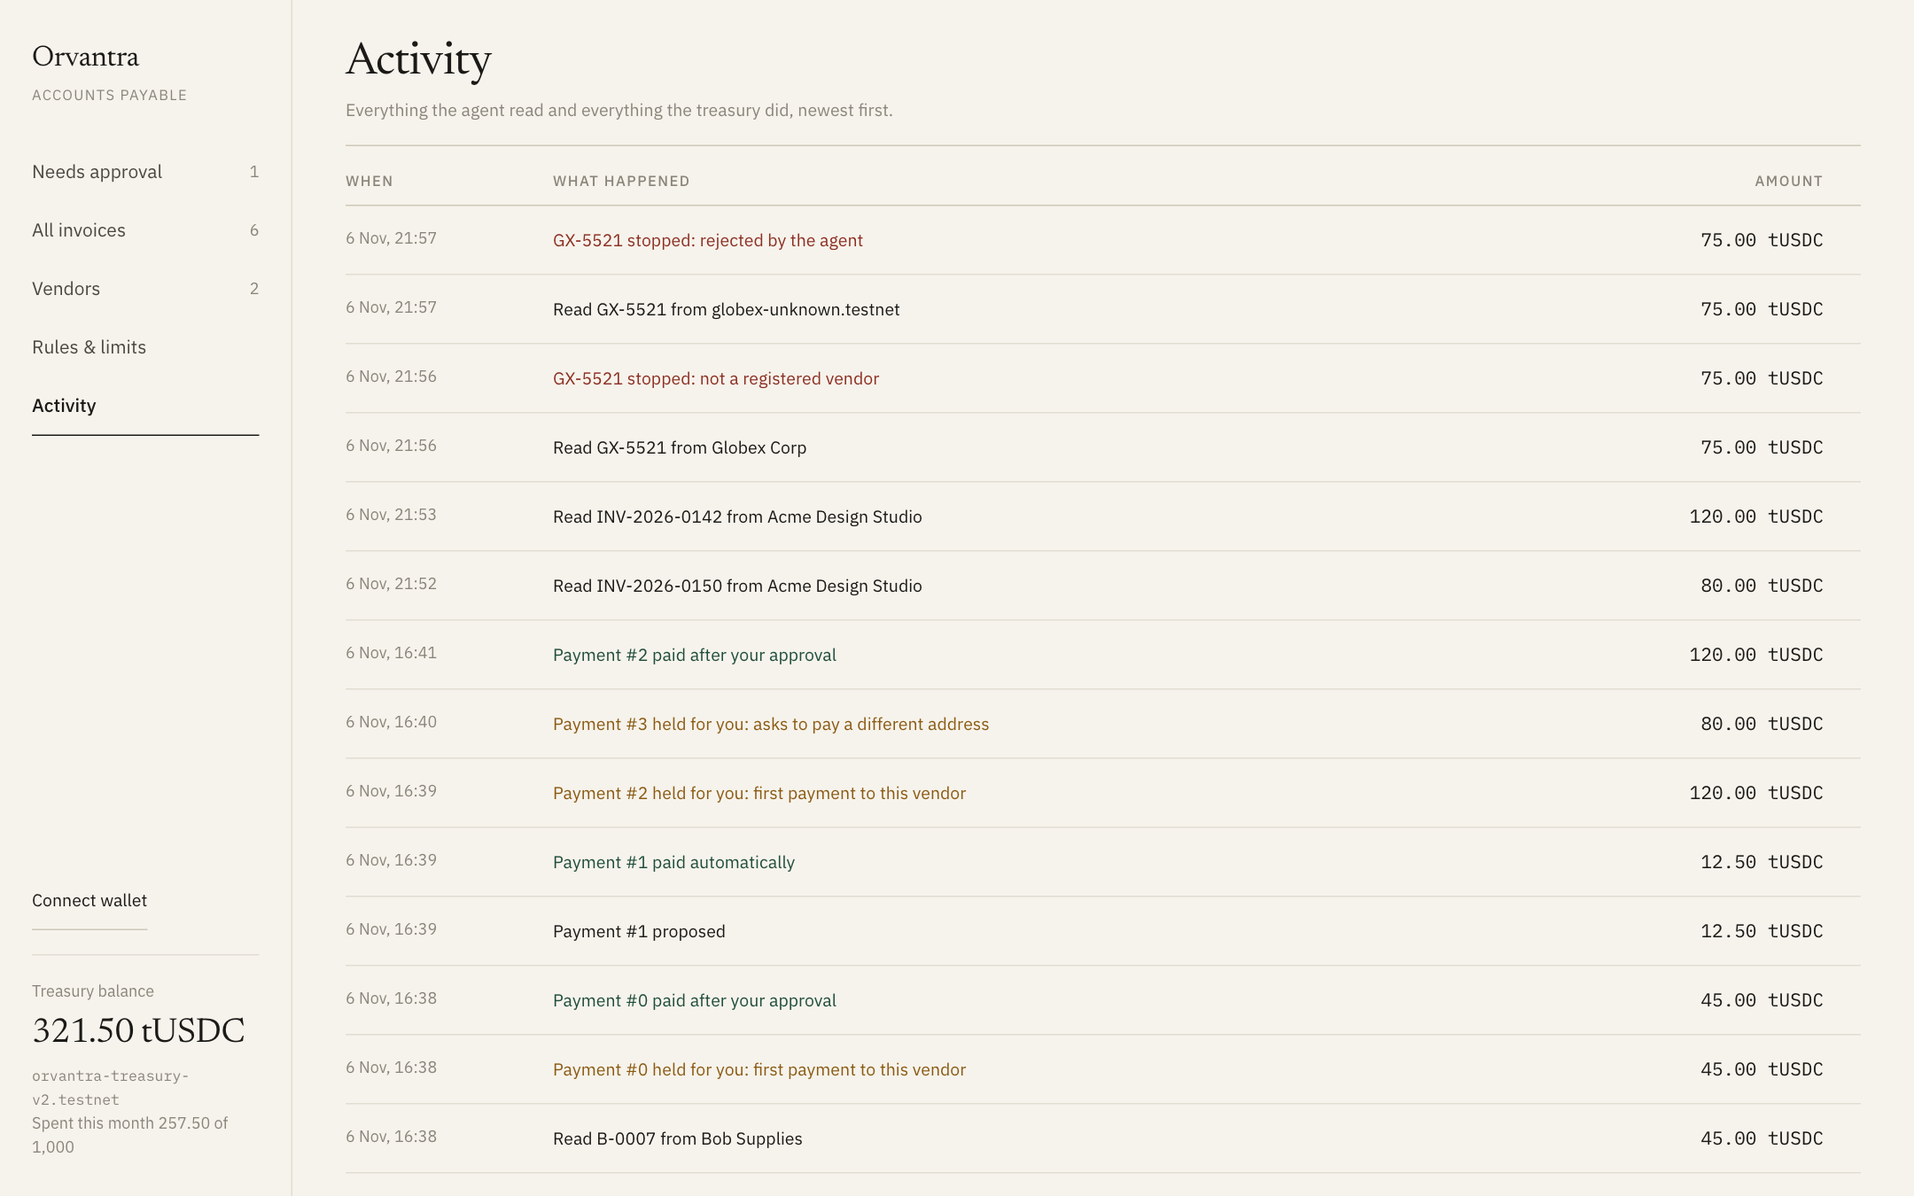
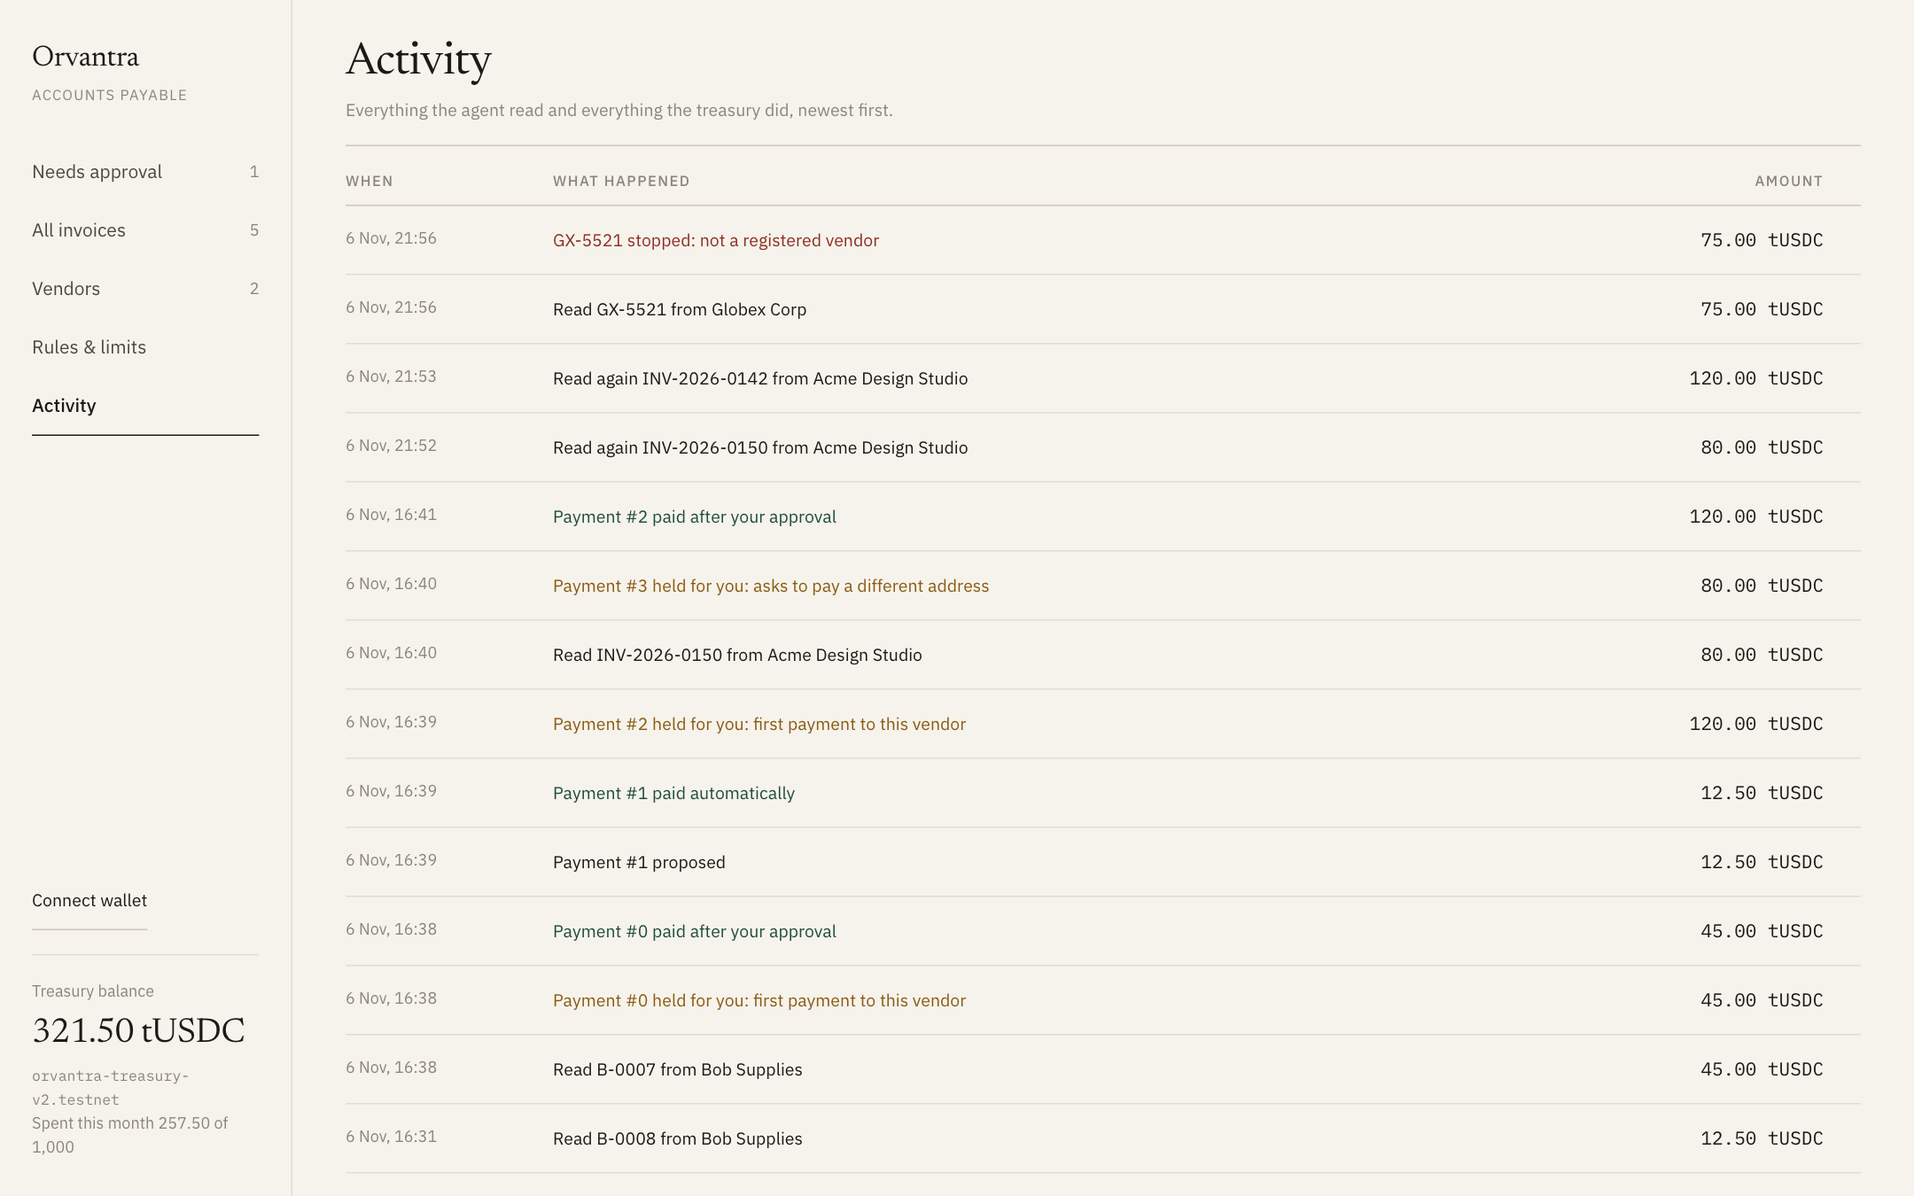
fix(web): dedupe invoices by hash, consistent received times
- One row per invoice hash in All invoices / Activity: an on-chain payment
  wins, else the newest run; older run keys kept as aliases so links resolve.
- A web upload's own ledger entry (upload_id) no longer makes a second row.
- Vendor name: if missing or equal to the account id, use the registry
  display_name, else a name read from any run of the invoice.
- Activity keeps every read; later ones are labelled 'Read again'.
- 'received' = ledger created time (new created_at, else first status),
  else on-chain created_at (labelled 'on-chain'); later read-only uploads
  no longer move it.
- Retook design/impl-list.png and impl-activity.png.

diff --git a/web/lib/rows.test.ts b/web/lib/rows.test.ts
@@ -2,6 +2,7 @@ import { describe, expect, it } from 'vitest';
 import type { Payment } from 'orvantra-agent/near';
 import type { InvoiceRecord } from 'orvantra-agent/records';
 import type { LedgerEntry } from 'orvantra-agent/ledger';
+import { buildActivity } from './activity';
 import { buildRows, counts, factsFor, type ChainContext } from './rows';
 
 const ctx: ChainContext = {
@@ -43,8 +44,15 @@ describe('buildRows', () => {
     expect(factsFor(r, ctx).agentFindings.some((m) => m.includes('duplicate'))).toBe(false);
   });
 
-  it('a rejected upload is its own stopped row; a duplicate upload keeps its duplicate finding', () => {
+  it('a rejected duplicate upload of a paid-for invoice folds into the payment row (one row per hash)', () => {
     const dup = record({ id: '1793998400000-00000001', mode: 'execute', outcome: 'rejected', invoice_hash: 'h3', decision: { ...record({}).decision!, findings: [{ level: 'reject', message: 'invoice_hash already used in the treasury (duplicate invoice)' }] } });
+    const rows = buildRows([payment({})], [], [dup], ctx);
+    expect(rows.map((r) => r.key)).toEqual(['p3']);
+    expect(rows[0]).toMatchObject({ category: 'held', aliases: ['u1793998400000-00000001'], readsAt: ['2026-11-06T20:00:00.000Z'] });
+  });
+
+  it('a rejected upload with no payment is its own stopped row', () => {
+    const dup = record({ id: '1793998400000-00000001', mode: 'execute', outcome: 'already-proposed', invoice_hash: 'h4' });
     const rows = buildRows([payment({})], [], [dup], ctx);
     expect(rows.map((r) => r.key)).toEqual(['u1793998400000-00000001', 'p3']);
     expect(rows[0]).toMatchObject({ category: 'stopped', outcome: 'Stopped — duplicate invoice', route: null });
@@ -57,10 +65,89 @@ describe('buildRows', () => {
     ];
     const rows = buildRows([payment({ id: 0, invoice_hash: 'h0', status: 'Paid', reasons: [] })], led, [], ctx);
     expect(rows.map((r) => [r.key, r.outcome])).toEqual([
-      ['p0', 'Paid automatically'], // created 2026-11-06 21:13 UTC, newest first
+      ['p0', 'Paid automatically'], // created 2026-11-06 18:33 UTC, newest first
       ['lh9', 'Stopped — rejected by the agent'],
     ]);
     expect(rows[1].fixtureFile).toBe('07-unknown-vendor.png');
     expect(counts(rows)).toEqual({ all: 2, held: 0, paid: 1, stopped: 1 });
+  });
+});
+
+describe('dedupe by invoice hash', () => {
+  const GX = 'gx-hash';
+  const gxRecord = record({
+    id: '1794005760000-0000gx01', received_at: '2026-11-06T21:56:00.000Z', mode: 'execute', outcome: 'rejected', invoice_hash: GX,
+    decision: { ...record({}).decision!, invoice_hash: GX, findings: [{ level: 'reject', message: 'vendor is not in the registry' }] },
+    invoice: { ...record({}).invoice!, vendor_name: 'Globex Corp', vendor_account: 'globex-unknown.testnet', invoice_number: 'GX-5521', amount_base_units: '75000000' },
+  });
+  const gxLedger: LedgerEntry = {
+    invoice_hash: GX, file: '07-unknown-vendor.png', network: 'testnet', treasury: 't.testnet', vendor: 'globex-unknown.testnet', amount: '75000000',
+    invoice_number: 'GX-5521', decision: 'reject', statuses: [{ at: '2026-11-06T21:57:00.000Z', status: 'analyzed:reject' }],
+  };
+
+  it('two runs of GX-5521 become one row: newest outcome, name read from the invoice, both reads kept', () => {
+    const rows = buildRows([], [gxLedger], [gxRecord], ctx);
+    expect(rows).toHaveLength(1);
+    expect(rows[0]).toMatchObject({
+      key: `l${GX.slice(0, 16)}`, vendorName: 'Globex Corp', vendorAccount: 'globex-unknown.testnet', outcome: 'Stopped — rejected by the agent',
+      receivedAt: '2026-11-06T21:57:00.000Z', aliases: ['u1794005760000-0000gx01'], readsAt: ['2026-11-06T21:56:00.000Z', '2026-11-06T21:57:00.000Z'],
+    });
+    const reads = buildActivity(rows, 'tUSDC').filter((e) => e.text.startsWith('Read'));
+    expect(reads.map((e) => [e.at, e.text])).toEqual([
+      ['2026-11-06T21:57:00.000Z', 'Read again GX-5521 from Globex Corp'],
+      ['2026-11-06T21:56:00.000Z', 'Read GX-5521 from Globex Corp'],
+    ]);
+    expect(buildActivity(rows, 'tUSDC').filter((e) => e.tone === 'rej')).toHaveLength(1);
+  });
+
+  it('newest run wins regardless of input order', () => {
+    const newer = { ...gxRecord, id: '1794009999999-0000gx02', received_at: '2026-11-06T22:30:00.000Z', outcome: 'analyzed' };
+    const rows = buildRows([], [gxLedger], [newer, gxRecord], ctx);
+    expect(rows.map((r) => r.key)).toEqual(['u1794009999999-0000gx02']);
+    expect(rows[0].readsAt).toHaveLength(3);
+  });
+
+  it('a vendor name that is just the account id falls back to the registry display name', () => {
+    const led = { ...gxLedger, invoice_hash: 'hA', vendor: 'acme.testnet' };
+    expect(buildRows([], [led], [], ctx)[0].vendorName).toBe('Acme');
+    const rec = record({ outcome: 'rejected', invoice_hash: 'hB', invoice: { ...record({}).invoice!, vendor_name: 'acme.testnet' } });
+    expect(buildRows([], [], [rec], ctx)[0].vendorName).toBe('Acme');
+    expect(buildRows([], [gxLedger], [], ctx)[0].vendorName).toBe('globex-unknown.testnet'); // nothing better known
+  });
+
+  it('a web upload and its own ledger entry are one run, one row', () => {
+    const led = { ...gxLedger, upload_id: gxRecord.id, statuses: [{ at: '2026-11-06T21:56:05.000Z', status: 'analyzed:reject' }] };
+    const rows = buildRows([], [led], [gxRecord], ctx);
+    expect(rows.map((r) => r.key)).toEqual(['u1794005760000-0000gx01']);
+    expect(rows[0].readsAt).toEqual(['2026-11-06T21:56:00.000Z']);
+  });
+});
+
+describe('received time', () => {
+  const T_CHAIN = '1793990000000000000'; // 2026-11-06T18:33:20Z
+  const led = (o: Partial<LedgerEntry>): LedgerEntry => ({
+    invoice_hash: 'h3', file: 'b.png', network: 'testnet', treasury: 't.testnet', vendor: 'acme.testnet', amount: '80000000', invoice_number: 'B-1',
+    decision: 'propose', payment_id: 3, statuses: [{ at: '2026-11-06T16:31:00.000Z', status: 'dry-run' }, { at: '2026-11-06T16:39:00.000Z', status: 'proposed' }], ...o,
+  });
+
+  it('comes from the ledger created time when present', () => {
+    const [r] = buildRows([payment({ created_at: T_CHAIN })], [led({ created_at: '2026-11-06T16:30:00.000Z' })], [], ctx);
+    expect(r).toMatchObject({ receivedAt: '2026-11-06T16:30:00.000Z', receivedSource: 'agent' });
+  });
+
+  it('older ledger entries without created_at use their first status', () => {
+    const [r] = buildRows([payment({ created_at: T_CHAIN })], [led({})], [], ctx);
+    expect(r).toMatchObject({ receivedAt: '2026-11-06T16:31:00.000Z', receivedSource: 'agent' });
+  });
+
+  it('without a ledger entry it is the on-chain created_at — never a later read-only upload of the same invoice', () => {
+    const [r] = buildRows([payment({ created_at: T_CHAIN })], [], [record({ received_at: '2026-11-06T23:00:00.000Z' })], ctx);
+    expect(r).toMatchObject({ receivedAt: '2026-11-06T18:33:20.000Z', receivedSource: 'chain' });
+    expect(r.readsAt).toEqual(['2026-11-06T23:00:00.000Z']);
+  });
+
+  it('upload-only and ledger-only rows use their own time', () => {
+    const rows = buildRows([], [led({ invoice_hash: 'h7', payment_id: null, created_at: '2026-11-06T10:00:00.000Z' })], [record({ invoice_hash: 'h8' })], ctx);
+    expect(rows.map((r) => [r.receivedAt, r.receivedSource])).toEqual([['2026-11-06T20:00:00.000Z', 'agent'], ['2026-11-06T10:00:00.000Z', 'agent']]);
   });
 });

diff --git a/web/lib/rows.ts b/web/lib/rows.ts
@@ -13,7 +13,15 @@ export interface Row {
   vendorName: string;
   vendorAccount: string | null;
   invoiceNumber: string | null;
+  /** When the invoice arrived: ledger created time, else the upload time (web runs), else on-chain created_at. */
   receivedAt: string | null;
+  /** Where receivedAt came from: the agent (ledger / web upload) or the treasury (on-chain created_at). */
+  receivedSource: 'agent' | 'chain' | null;
+  invoiceHash: string | null;
+  /** Every time the agent read this invoice hash (oldest first), across all runs folded into this row. */
+  readsAt: string[];
+  /** Keys of other rows for the same invoice hash that were folded into this one. */
+  aliases: string[];
   category: Category;
   state: ReviewState;
   outcome: string;
@@ -105,9 +113,21 @@ export function verdictFor(row: Row, ctx: ChainContext): Verdict {
   return buildVerdict(factsFor(row, ctx));
 }
 
-function vendorNameOf(acct: string | null, rec: InvoiceRecord | null, ctx: ChainContext): string {
-  return rec?.invoice?.vendor_name || (acct ? ctx.registry.get(acct)?.display_name : null) || rec?.registry_entry?.display_name || acct || 'Unknown vendor';
+/**
+ * The name read from the invoice, unless it is missing or just the account id; then the registry display name;
+ * then a name read by another run of the same invoice (`readNames`); then the account id.
+ */
+export function vendorNameOf(acct: string | null, rec: InvoiceRecord | null, ctx: ChainContext, readNames: (string | null | undefined)[] = []): string {
+  const useful = (n: string | null | undefined): n is string => !!n && n.trim() !== '' && n.trim() !== acct;
+  const read = rec?.invoice?.vendor_name;
+  if (useful(read)) return read;
+  const reg = (acct ? ctx.registry.get(acct)?.display_name : null) || rec?.registry_entry?.display_name;
+  if (useful(reg)) return reg;
+  return readNames.find(useful) ?? acct ?? 'Unknown vendor';
 }
+
+/** When the agent first saw a ledger entry: `created_at`, else its first status (older ledgers). */
+export const ledgerCreatedAt = (l: LedgerEntry): string | null => l.created_at ?? l.statuses[0]?.at ?? null;
 
 /**
  * One row per on-chain payment (with the upload record that proposed it, or a read-only record of the same
@@ -130,12 +150,19 @@ export function buildRows(payments: Payment[], ledger: LedgerEntry[], records: I
     const led = ledg.find((l) => l.invoice_hash === p.invoice_hash) ?? null;
     if (led) usedLedger.add(led.invoice_hash);
     const state = stateOfPayment(p);
+    const ledAt = led ? ledgerCreatedAt(led) : null;
+    const chainAt = nsToIso(p.created_at);
     const row: Row = {
       key: `p${p.id}`,
       vendorName: vendorNameOf(p.vendor, rec, ctx),
       vendorAccount: p.vendor,
       invoiceNumber: rec?.invoice?.invoice_number || p.memo || led?.invoice_number || null,
-      receivedAt: rec?.received_at ?? led?.statuses[0]?.at ?? nsToIso(p.created_at),
+      receivedAt: ledAt ?? chainAt,
+      receivedSource: ledAt ? 'agent' : chainAt ? 'chain' : null,
+      invoiceHash: p.invoice_hash,
+      readsAt: [ledAt, ...recs.filter((r) => r.invoice_hash === p.invoice_hash && usedRecords.has(r.id)).map((r) => r.received_at)]
+        .filter((x): x is string => !!x),
+      aliases: [],
       category: categoryOf(state),
       state,
       outcome: '',
@@ -162,6 +189,10 @@ export function buildRows(payments: Payment[], ledger: LedgerEntry[], records: I
       vendorAccount: acct,
       invoiceNumber: r.invoice?.invoice_number || null,
       receivedAt: r.received_at,
+      receivedSource: 'agent',
+      invoiceHash: r.invoice_hash ?? null,
+      readsAt: [r.received_at],
+      aliases: [],
       category: categoryOf(state),
       state,
       outcome: '',
@@ -182,6 +213,9 @@ export function buildRows(payments: Payment[], ledger: LedgerEntry[], records: I
 
   for (const l of ledg) {
     if (usedLedger.has(l.invoice_hash) || l.payment_id != null) continue;
+    // The ledger entry of a web upload that has its own record row is the same run, not another invoice.
+    if (l.upload_id && recs.some((r) => r.id === l.upload_id)) continue;
+    const ledAt = ledgerCreatedAt(l);
     const last = l.statuses.at(-1)?.status ?? '';
     const state: ReviewState = l.decision === 'reject' || last === 'quote:invalid' || last === 'tx-failed' ? 'stopped' : 'not-sent';
     rows.push({
@@ -189,7 +223,11 @@ export function buildRows(payments: Payment[], ledger: LedgerEntry[], records: I
       vendorName: vendorNameOf(l.vendor, null, ctx),
       vendorAccount: l.vendor,
       invoiceNumber: l.invoice_number,
-      receivedAt: l.statuses[0]?.at ?? null,
+      receivedAt: ledAt,
+      receivedSource: ledAt ? 'agent' : null,
+      invoiceHash: l.invoice_hash,
+      readsAt: ledAt ? [ledAt] : [],
+      aliases: [],
       category: categoryOf(state),
       state,
       outcome: l.decision === 'reject' ? 'Stopped — rejected by the agent' : last === 'dry-run' ? 'Not sent — dry run' : `Stopped — ${last || 'not sent'}`,
@@ -202,7 +240,35 @@ export function buildRows(payments: Payment[], ledger: LedgerEntry[], records: I
     });
   }
 
-  return rows.sort((a, b) => (b.receivedAt ?? '').localeCompare(a.receivedAt ?? ''));
+  return dedupeByHash(rows, ctx).sort((a, b) => (b.receivedAt ?? '').localeCompare(a.receivedAt ?? ''));
+}
+
+const lastRead = (r: Row): string => r.readsAt.reduce((m, x) => (x > m ? x : m), r.receivedAt ?? '');
+
+/**
+ * One row per invoice hash. An on-chain payment wins (it is the invoice's real outcome); otherwise the row from the
+ * newest run wins. The winner keeps every read time, the other rows' keys as aliases, and a better vendor name
+ * (registry, or read by another run) when its own is missing or just the account id.
+ */
+export function dedupeByHash(rows: Row[], ctx: ChainContext): Row[] {
+  const groups = new Map<string, Row[]>();
+  const out: Row[] = [];
+  for (const r of rows) {
+    if (!r.invoiceHash) { out.push(r); continue; }
+    const g = groups.get(r.invoiceHash);
+    if (g) g.push(r); else groups.set(r.invoiceHash, [r]);
+  }
+  for (const g of groups.values()) {
+    if (g.length === 1) { out.push(g[0]); continue; }
+    const [win, ...rest] = [...g].sort((a, b) => Number(!!b.payment) - Number(!!a.payment) || lastRead(b).localeCompare(lastRead(a)));
+    out.push({
+      ...win,
+      vendorName: vendorNameOf(win.vendorAccount, win.record, ctx, g.map((r) => r.record?.invoice?.vendor_name)),
+      readsAt: [...new Set(g.flatMap((r) => r.readsAt))].sort(),
+      aliases: [...win.aliases, ...rest.flatMap((r) => [r.key, ...r.aliases])],
+    });
+  }
+  return out;
 }
 
 export function counts(rows: Row[]): Record<'all' | Category, number> {

diff --git a/agent/src/ledger.ts b/agent/src/ledger.ts
@@ -29,8 +29,13 @@ export interface LedgerEntry {
   tx_hash?: string | null;
   /** Web upload record id (agent/data/files/<id>.json), when the invoice came through the web app. */
   upload_id?: string;
+  /** When the agent first saw this invoice (set on creation; older entries fall back to statuses[0].at). */
+  created_at?: string;
   statuses: LedgerStatus[];
 }
+
+/** When the agent first saw this invoice: `created_at`, else the first status time (older entries). */
+export const ledgerCreatedAt = (e: LedgerEntry): string | null => e.created_at ?? e.statuses[0]?.at ?? null;
 
 export type Ledger = Record<string, LedgerEntry>;
 
@@ -56,9 +61,10 @@ export function writeLedger(path: string, ledger: Ledger): void {
 export function upsert(ledger: Ledger, hash: string, patch: Partial<LedgerEntry> & Pick<LedgerEntry, 'file'>, status?: Omit<LedgerStatus, 'at'>, now = new Date()): Ledger {
   const prev = ledger[hash];
   const base: LedgerEntry = prev ?? {
-    invoice_hash: hash, file: patch.file, network: '', treasury: '', vendor: null, amount: null, invoice_number: null, decision: '', statuses: [],
+    invoice_hash: hash, file: patch.file, network: '', treasury: '', vendor: null, amount: null, invoice_number: null, decision: '',
+    created_at: now.toISOString(), statuses: [],
   };
-  const next: LedgerEntry = { ...base, ...patch, invoice_hash: hash, statuses: [...base.statuses] };
+  const next: LedgerEntry = { ...base, ...patch, invoice_hash: hash, created_at: base.created_at, statuses: [...base.statuses] };
   if (status) next.statuses.push({ at: now.toISOString(), ...status });
   return { ...ledger, [hash]: next };
 }

diff --git a/agent/test/ledger.test.ts b/agent/test/ledger.test.ts
@@ -2,7 +2,7 @@ import { mkdtempSync, readFileSync } from 'node:fs';
 import { tmpdir } from 'node:os';
 import { join } from 'node:path';
 import { describe, expect, it } from 'vitest';
-import { alreadyProposed, readLedger, upsert, writeLedger } from '../src/ledger.ts';
+import { alreadyProposed, ledgerCreatedAt, readLedger, upsert, writeLedger } from '../src/ledger.ts';
 
 const T0 = new Date('2026-11-06T10:00:00Z');
 const T1 = new Date('2026-11-06T10:01:00Z');
@@ -19,6 +19,16 @@ describe('ledger', () => {
       { at: T0.toISOString(), status: 'analyzed:propose' },
       { at: T1.toISOString(), status: 'Paid', detail: 'ok' },
     ]);
+  });
+
+  it('created_at is set once on creation and kept; legacy entries fall back to the first status', () => {
+    const l1 = upsert({}, 'h', { file: 'f' }, { status: 'dry-run' }, T0);
+    const l2 = upsert(l1, 'h', { file: 'f', created_at: 'ignored' }, { status: 'proposed' }, T1);
+    expect(l2.h.created_at).toBe(T0.toISOString());
+    expect(ledgerCreatedAt(l2.h)).toBe(T0.toISOString());
+    const legacy = { ...l2.h, created_at: undefined, statuses: [{ at: T1.toISOString(), status: 'x' }] };
+    expect(ledgerCreatedAt(legacy)).toBe(T1.toISOString());
+    expect(ledgerCreatedAt({ ...legacy, statuses: [] })).toBeNull();
   });
 
   it('alreadyProposed only for the same network + treasury and only once a tx was sent', () => {

diff --git a/web/app/invoices/page.tsx b/web/app/invoices/page.tsx
@@ -51,7 +51,9 @@ export default async function Invoices({ searchParams }: { searchParams: Promise
               </td>
               <td>
                 <span className="mono">{r.invoiceNumber ?? '—'}</span>
-                <div className="s">received {fmtWhen(r.receivedAt)}</div>
+                <div className="s" title={r.receivedSource === 'chain' ? 'Time the treasury recorded the payment' : 'Time the agent first read the invoice'}>
+                  {r.receivedSource === 'chain' ? 'on-chain' : 'received'} {fmtWhen(r.receivedAt)}
+                </div>
               </td>
               <td><span className={`st ${TONE[r.category]}`}>{r.outcome}</span></td>
               <td className="s">{r.route ?? '—'}</td>

diff --git a/web/lib/activity.ts b/web/lib/activity.ts
@@ -17,8 +17,9 @@ export function buildActivity(rows: Row[], unit: string, threshold: string | nul
   for (const r of rows) {
     amounts.set(r.key, r.amount);
     const what = `${r.invoiceNumber ?? 'an invoice'} from ${r.vendorName}`;
-    const received = r.record?.received_at ?? r.ledger?.statuses[0]?.at ?? null;
-    if (received) out.push({ at: received, rowKey: r.key, tone: 'plain', text: `Read ${what}` });
+    // One row per invoice hash; every run that read it is kept here, the later ones as "Read again".
+    r.readsAt.forEach((at, i) => out.push({ at, rowKey: r.key, tone: 'plain', text: `${i === 0 ? 'Read' : 'Read again'} ${what}` }));
+    const received = r.receivedAt;
 
     const p = r.payment;
     if (p) {

diff --git a/web/app/invoices/[key]/page.tsx b/web/app/invoices/[key]/page.tsx
@@ -12,7 +12,8 @@ export const metadata: Metadata = { title: 'Invoice' };
 export default async function InvoiceDetail({ params }: { params: Promise<{ key: string }> }) {
   const { key } = await params;
   const d = await getData();
-  const row = d.rows.find((r) => r.key === key);
+  // Older runs of the same invoice were folded into one row; their keys (e.g. a fresh upload link) still resolve.
+  const row = d.rows.find((r) => r.key === key) ?? d.rows.find((r) => r.aliases.includes(key));
   if (!row) notFound();
   const v = reviewView(row, d);
   return (
